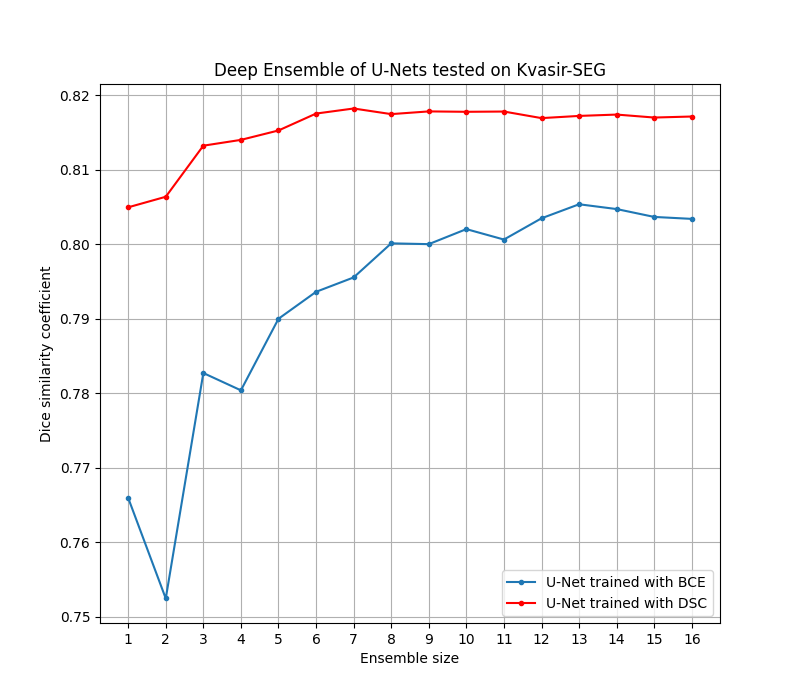
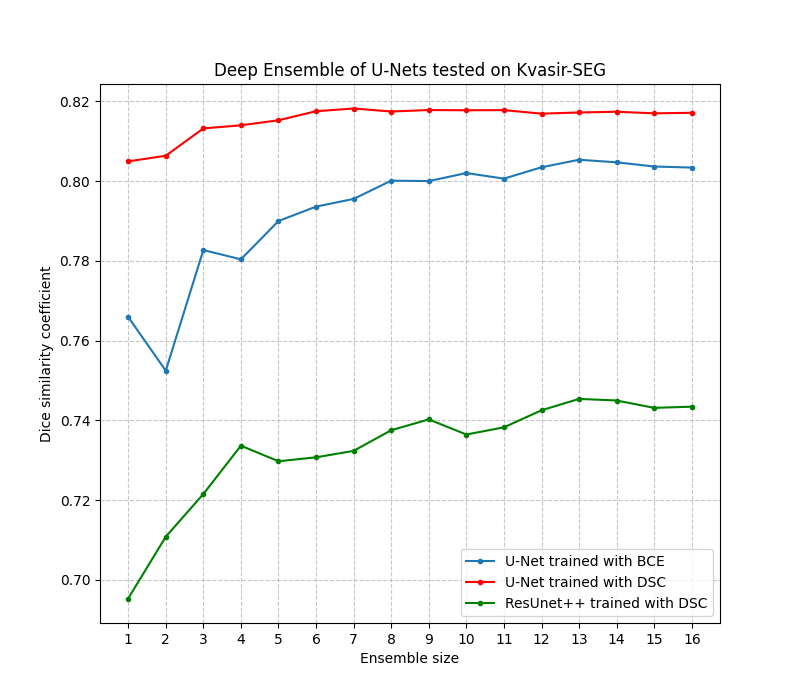
add results from resunet++

diff --git a/src/deep_ensemble.py b/src/deep_ensemble.py
@@ -144,7 +144,7 @@ def dice_list():
         0.8171624245168824
     ]
 
-    resunet++_dice = [
+    resunetplusplus_dice = [
         0.6953401563935416,
         0.7108269197580678,
         0.7215404303833568,
@@ -163,15 +163,17 @@ def dice_list():
         0.7434531716286275
     ]
 
-    return unet_BCE, unet_dice, resunet++_dice
+    return unet_BCE, unet_dice, resunetplusplus_dice
+
 
 def plot_ensembles_vs_score(save_plot_folder, filename, title):
-    unet_bce, unet_dice, resunet++_dice = dice_list()
+    unet_bce, unet_dice, resunetplusplus_dice = dice_list()
     plt.figure(figsize=(8, 7))
     plt.plot(range(1,  len(unet_bce)+1), unet_bce, ".-", label="U-Net trained with BCE")
     plt.plot(range(1,  len(unet_dice)+1), unet_dice, "r.-", label="U-Net trained with DSC")
+    plt.plot(range(1,  len(resunetplusplus_dice)+1), resunetplusplus_dice, "g.-", label="ResUnet++ trained with DSC")
     plt.legend(loc="best")
-    plt.grid()
+    plt.grid(ls="dashed", alpha=0.7)
     plt.xticks(range(1,  len(unet_bce)+1))
     plt.xlabel("Ensemble size")
     plt.ylabel("Dice similarity coefficient")
@@ -231,7 +233,7 @@ def run_ensembles(number):
     filename = "unet_ensembles_vs_score"
     title = "Deep Ensemble of U-Nets tested on Kvasir-SEG"
 
-    #plot_ensembles_vs_score(save_plot_folder, filename, title)
+    plot_ensembles_vs_score(save_plot_folder, filename, title)
 
 
 

diff --git a/src/trainer.py b/src/trainer.py
@@ -62,7 +62,7 @@ def train_model(loader, model, device, optimizer, criterion):
 
         # backprop
         optimizer.zero_grad()  # zero out previous gradients
-        scaler.scale(loss).backward()  # scale loss before backprop
+        scaler.scale(loss).backward()  # scale loss in backprop
         scaler.step(optimizer)  # update gradients
         scaler.update()  # update scale factor
 

diff --git a/src/unet.py b/src/unet.py
@@ -142,7 +142,7 @@ class UNet(nn.Module):
 
 
 class UNet_dropout(nn.Module):
-    def __init__(self, in_channels, out_channels, droprate):
+    def __init__(self, in_channels, out_channels, droprate=0.1):
         super(UNet_dropout, self).__init__()
         """
         Credit : https://github.com/milesial/Pytorch-UNet/blob/master/unet/unet_model.py
